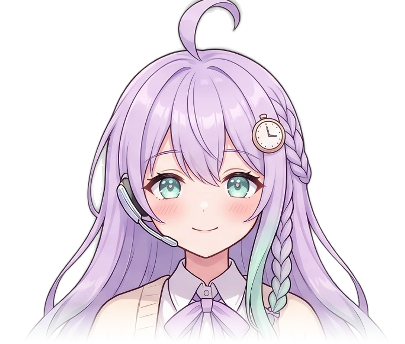
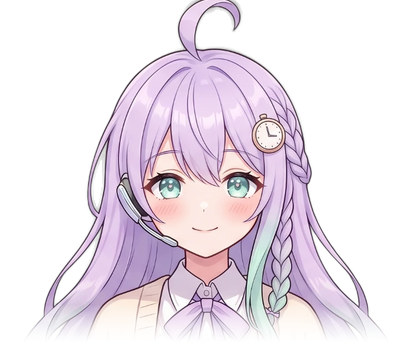
fix: show character art 1:1 so it stays sharp
Frames (405px) were shrunk to 350px at runtime; without Pillow that used
Tk's 5/6 nearest-neighbour zoom/subsample, which made outlines jagged and
soft. The mascot window is now 415px wide so frames display 1:1 with no
runtime resampling, and the frame builder downsamples the HD sheets with
LANCZOS (eye alignment unchanged). Nuri and Sera frames rebuilt.

Claude-Session: https://claude.ai/code/session_01L42W33ifVQcmMy8xts9BDQ

diff --git a/tools/build_frames.py b/tools/build_frames.py
@@ -64,10 +64,17 @@ CHARACTERS = {
 }
 
 def place(img, mid, k):
-    """Scale by k and move `mid` to EYE_OUT, in premultiplied alpha to avoid dark fringes."""
-    left, top = mid[0] - EYE_OUT[0] / k, mid[1] - EYE_OUT[1] / k
+    """Scale by k and move `mid` to EYE_OUT, in premultiplied alpha to avoid dark fringes.
+
+    LANCZOS with a float source box keeps sub-pixel eye alignment and stays crisp when
+    shrinking HD sheets. The source is padded first because the box may reach past it.
+    """
+    pad = int(max(W, H) / k) + 2
+    padded = Image.new("RGBA", (img.width + 2 * pad, img.height + 2 * pad), (0, 0, 0, 0))
+    padded.paste(img, (pad, pad))
+    left, top = mid[0] + pad - EYE_OUT[0] / k, mid[1] + pad - EYE_OUT[1] / k
     box = (left, top, left + W / k, top + H / k)
-    return img.convert("RGBa").transform((W, H), Image.EXTENT, box, Image.BICUBIC).convert("RGBA")
+    return padded.convert("RGBa").resize((W, H), Image.LANCZOS, box=box).convert("RGBA")
 
 def to_out(p, mid, k):
     return ((p[0] - mid[0]) * k + EYE_OUT[0], (p[1] - mid[1]) * k + EYE_OUT[1])

diff --git a/src/nuri_assistant/ui/mascot.py b/src/nuri_assistant/ui/mascot.py
@@ -47,7 +47,9 @@ ASSETS_DIR = Path(__file__).resolve().parents[3] / "assets" / "characters"
 SETTINGS_PATH = APP_DIR / "companion.json"
 MEMORY_PATH = APP_DIR / "companion.sqlite3"
 
-WIDTH = 360
+# Character frames are 405px wide and CHAR_BOX is WIDTH - 10, so they show 1:1 with no
+# runtime resampling (which is what made the art look soft, especially without Pillow).
+WIDTH = 415
 CANVAS_HEIGHT = 560
 # The chat box appears right under the character, in the strip below CHAR_BOTTOM.
 CHAR_BOTTOM = CANVAS_HEIGHT - CHAT_HEIGHT - 18

diff --git a/CLAUDE.md b/CLAUDE.md
@@ -63,6 +63,7 @@ tools/build_frames.py     # 원본 시트 → 정렬된 표정 프레임
 - 색과 공용 위젯은 `ui/theme.py`에 있습니다 (파스텔 라일락: 배경 `#f6f2fb`, 강조 `#a68ae0`, 글자 `#2f2640`, 오늘/달성 `#3fae94`, 위험 `#e06c8a`). 새 창은 기본 ttk 위젯 대신 이 톤의 캔버스 카드로 만듭니다.
 - 캐릭터 창 캔버스의 겹침 순서: 캐릭터 → 말풍선(`bubble`) → 확인 카드(`confirm`) → 채팅창(`chat`). 캐릭터를 다시 그린 뒤에는 이 순서로 `tag_raise`합니다.
 - 채팅창은 캐릭터에 마우스를 올렸을 때만 보입니다. 마우스만 올려서는 입력 포커스를 가져오지 않습니다(다른 프로그램의 키 입력을 뺏지 않도록).
+- 캐릭터 프레임은 405×344px로 만들고 캐릭터 창(`WIDTH = 415`)에서 1:1로 보여 줍니다. 실행 중 리샘플링은 화질을 떨어뜨리니 크기를 바꾸려면 `tools/build_frames.py`의 `W, H`와 `WIDTH`를 같이 바꿉니다.
 - Windows 투명 키 색은 `#010203`입니다. 캐릭터 창 배경 외에는 이 색을 쓰지 않습니다.
 
 ## 캐릭터 추가

diff --git a/HISTORY.md b/HISTORY.md
@@ -4,6 +4,11 @@
 
 ## 2026-10-06
 
+### 캐릭터 선명도 개선
+- 원인: 표정 프레임(405px)을 화면(350px)에 맞추느라 실행 중에 줄였는데, Pillow가 없으면 Tk의 정수 비율 확대·축소(5/6, 최근접 이웃)를 써서 선이 깨지고 흐렸습니다. Pillow가 있어도 86%로 줄인 만큼 흐렸습니다.
+- 캐릭터 창 폭을 360 → 415px로 넓혀 프레임이 1:1로 보이게 했습니다 (실행 중 리샘플링 없음, Pillow 유무와 관계없이 같은 결과).
+- `tools/build_frames.py`가 고화질 원본에서 LANCZOS로 바로 줄이도록 바꿨습니다 (눈 위치 정렬은 픽셀 단위로 동일).
+
 ### 할 일, 집중 타이머, 일본어 음성
 - 할 일: 말로 추가·완료·삭제(확인 카드), 마감 전날 19시·당일 9시 잔소리, 기한 지난 할 일은 아침 브리핑에 포함, 할 일 창(D-day 칩, 동그라미 눌러 완료).
 - 집중 타이머: 집중·휴식 반복(뽀모도로), 캐릭터 옆 남은 시간 배지(눌러서 멈춤), 단계가 끝날 때마다 캐릭터 대사.
